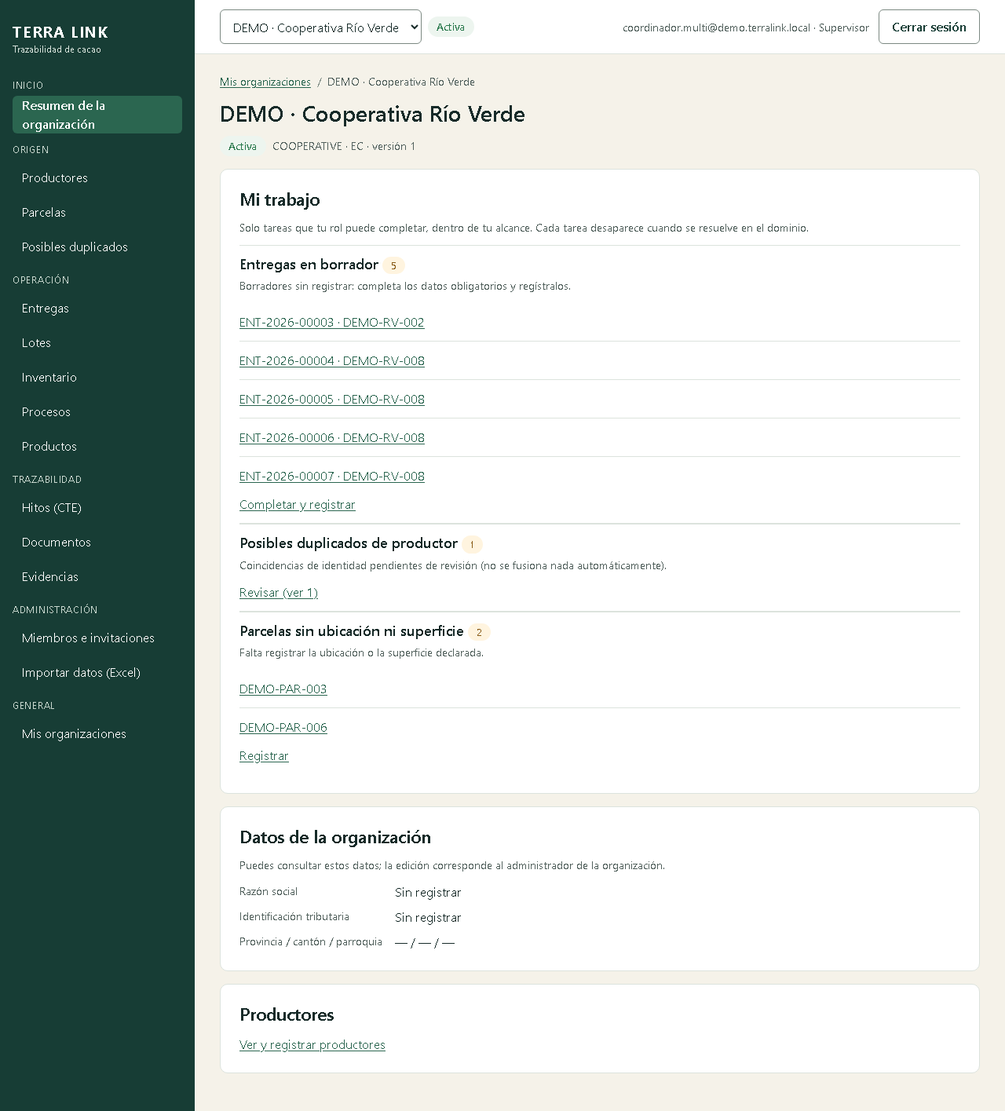
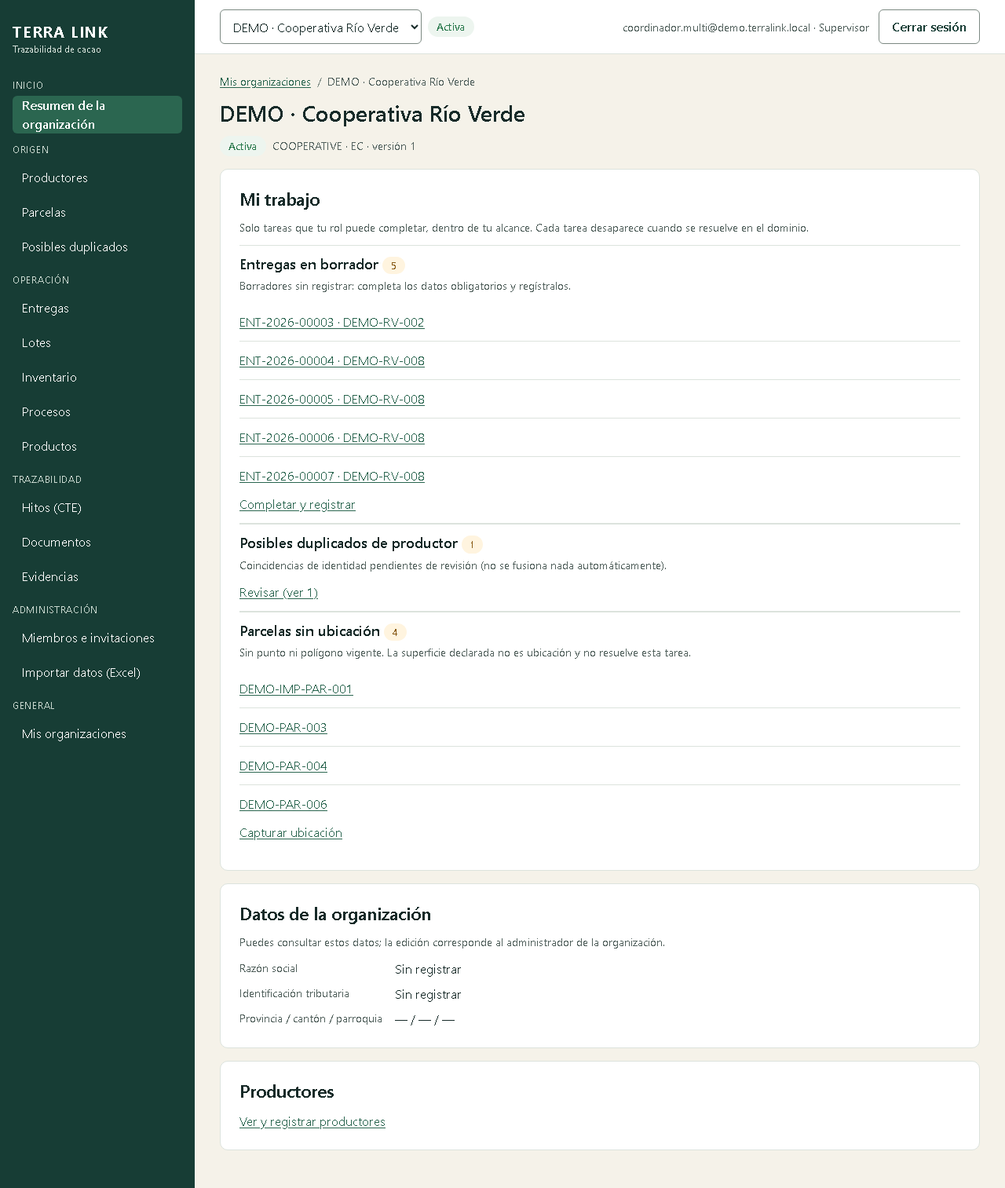
P0-027 reabierta: «Parcelas sin ubicación» exige geometría y aviso de parcelas restringidas por permiso
- La tarea cuenta parcelas sin versión o con versión vigente sin geometría; la superficie
  declarada ya no la resuelve (pruebas: sin versión, solo superficie, punto y polígono).
- Acción real en navegador: punto SIMULADO (geolocalización emulada) en DEMO-IMP-PAR-002.
- Lot Hub y detalle de entrega: el aviso depende solo del permiso; recepciones con 0, 1 o 2
  parcelas ocultas devuelven la misma forma (sin códigos, ids ni cantidades).
- Evidencia corregida; validate aprobada (2026-10-12T17-51-31-124Z).

diff --git a/apps/api/test/my-work.int-spec.ts b/apps/api/test/my-work.int-spec.ts
@@ -74,10 +74,29 @@ describeDb('P0-027 Mi trabajo y Lot Hub (PostgreSQL real)', () => {
     expect(rec).toMatchObject({ count: 1, items: [expect.objectContaining({ label: expect.stringContaining('W-2') })] });
     await http().post(`${api(orgA)}/deliveries/${draft.id}/receptions`).set(as('recepcion@test.local')).send({ operation_id: randomUUID(), location_id: center, received_at: new Date().toISOString(), weighing: { method: 'B', quantity: '100', unit: 'KG', weighed_on: today } }).expect(201);
     expect(task(await work('recepcion@test.local'), 'DELIVERIES_TO_RECEIVE')).toBeUndefined();
-    expect(task(await work(T1), 'PLOTS_WITHOUT_LOCATION')!.count).toBe(1);
-    const v = await h.db.selectFrom('plots').select('row_version').where('id', '=', plotP1).executeTakeFirstOrThrow();
-    await http().post(`${api(orgA)}/plots/${plotP1}/declared-area`).set(as(T1)).send({ expected_version: Number(v.row_version), area_declared_ha: 1.5 }).expect(201);
-    expect(task(await work(T1), 'PLOTS_WITHOUT_LOCATION')).toBeUndefined();
+  });
+
+  it('Parcelas sin ubicación: sin versión y solo superficie declarada siguen en la tarea; punto y polígono la resuelven', async () => {
+    const mkPlot = async (code: string) => (await http().post(`${api(orgA)}/plots`).set(as(ADMIN)).send({ producer_id: p1, plot_code: code, crop: 'Cacao' }).expect(201)).body.id as string;
+    const rv = async (id: string) => Number((await h.db.selectFrom('plots').select('row_version').where('id', '=', id).executeTakeFirstOrThrow()).row_version);
+    const labels = async () => (task(await work(T1), 'PLOTS_WITHOUT_LOCATION')?.items ?? []).map((i) => i.label);
+    const declared = await mkPlot('W-1-DECL');
+    const point = await mkPlot('W-1-PUNTO');
+    const polygon = await mkPlot('W-1-POLI');
+    expect(await labels()).toEqual(expect.arrayContaining(['W-1-P1', 'W-1-DECL', 'W-1-PUNTO', 'W-1-POLI'])); // sin versión
+    // Superficie declarada sin coordenadas: versión vigente sin geometría → sigue sin ubicación.
+    await http().post(`${api(orgA)}/plots/${declared}/declared-area`).set(as(T1)).send({ expected_version: await rv(declared), area_declared_ha: 1.2 }).expect(201);
+    await http().post(`${api(orgA)}/plots/${point}/declared-area`).set(as(T1)).send({ expected_version: await rv(point), area_declared_ha: 0.8 }).expect(201);
+    expect(await labels()).toEqual(expect.arrayContaining(['W-1-DECL', 'W-1-PUNTO']));
+    // Punto (sobre una versión declarada) y polígono: la tarea se retira solo para esas parcelas.
+    await http().post(`${api(orgA)}/plots/${point}/geometry-versions`).set(as(T1)).send({ expected_version: await rv(point), survey_method: 'MANUAL_COORDINATES', geometry: { type: 'Point', coordinates: [-80.1601, -0.8479] } }).expect(201);
+    const ring = [[-80.16, -0.85], [-80.159, -0.85], [-80.159, -0.849], [-80.16, -0.849], [-80.16, -0.85]];
+    await http().post(`${api(orgA)}/plots/${polygon}/geometry-versions`).set(as(T1)).send({ expected_version: await rv(polygon), survey_method: 'MANUAL_COORDINATES', geometry: { type: 'Polygon', coordinates: [ring] } }).expect(201);
+    const after = await labels();
+    expect(after).toEqual(expect.arrayContaining(['W-1-P1', 'W-1-DECL']));
+    expect(after).not.toContain('W-1-PUNTO');
+    expect(after).not.toContain('W-1-POLI');
+    expect(task(await work(T1), 'PLOTS_WITHOUT_LOCATION')).toMatchObject({ title: 'Parcelas sin ubicación', count: 2 });
   });
 
   it('Lot Hub: quien lee entregas pero no parcelas no recibe códigos ni ids de parcelas de origen', async () => {
@@ -88,8 +107,41 @@ describeDb('P0-027 Mi trabajo y Lot Hub (PostgreSQL real)', () => {
     expect(adminView.upstream.receptions[0]).toMatchObject({ plots: ['W-1-P1'], plot_links: [{ id: plotP1, code: 'W-1-P1' }], plots_restricted: false, origin_known: true, delivery_id: d.id, producer_id: p1 });
     expect(adminView.inputs[0].delivery_id).toBe(d.id);
     const recView = (await http().get(`${api(orgA)}/lots/${lot.id}`).set(as('recepcion@test.local')).expect(200)).body;
-    expect(recView.upstream.receptions[0]).toMatchObject({ plots: [], plot_links: [], plots_restricted: true, origin_known: true, producer_id: null });
+    expect(recView.upstream.receptions[0]).toMatchObject({ plots: [], plot_links: [], plots_restricted: true, origin_known: null, producer_id: null });
     expect(JSON.stringify(recView)).not.toContain('W-1-P1');
     expect(JSON.stringify(recView)).not.toContain(plotP1);
+  });
+
+  it('parcelas restringidas: el aviso depende del permiso; lotes con 0, 1 o 2 parcelas ocultas son indistinguibles', async () => {
+    const extra = (await http().post(`${api(orgA)}/plots`).set(as(ADMIN)).send({ producer_id: p1, plot_code: 'W-1-OCULTA2', crop: 'Cacao' }).expect(201)).body.id;
+    const mkLot = async (origins: Array<{ plot_id: string; quantity?: string }>) => {
+      const d = (await http().post(`${api(orgA)}/deliveries`).set(as(ADMIN)).send({ operation_id: randomUUID(), producer_id: p1, product_id: product, delivery_date: today, quantity_declared: '30', unit: 'KG', origins, register: true }).expect(201)).body.delivery;
+      const r = (await http().post(`${api(orgA)}/deliveries/${d.id}/receptions`).set(as(ADMIN)).send({ operation_id: randomUUID(), location_id: center, received_at: new Date().toISOString(), weighing: { method: 'B', quantity: '30', unit: 'KG', weighed_on: today } }).expect(201)).body.reception_id;
+      return { delivery: d.id as string, lot: (await http().post(`${api(orgA)}/lots`).set(as(ADMIN)).send({ operation_id: randomUUID(), inputs: [{ reception_id: r, quantity: '30' }] }).expect(201)).body.lot.id as string };
+    };
+    const one = await mkLot([{ plot_id: plotP1, quantity: '30' }]);
+    const two = await mkLot([{ plot_id: plotP1, quantity: '10' }, { plot_id: extra, quantity: '20' }]);
+    const none = await mkLot([]);
+    const Q = 'calidad@test.local'; // lee entregas y lotes; sin lectura de parcelas ni capacidad de declarar origen
+    const shape = async (lot: string) => {
+      const v = (await http().get(`${api(orgA)}/lots/${lot}`).set(as(Q)).expect(200)).body;
+      return v.upstream.receptions.map(({ lot_id: _l, delivery_id: _d, delivery_code: _c, ...rest }: Record<string, unknown>) => rest);
+    };
+    const [s1, s2, s0] = [await shape(one.lot), await shape(two.lot), await shape(none.lot)];
+    expect(s1).toEqual([{ producer_code: 'W-1', producer_id: null, producer_name: null, plots: [], plot_links: [], plots_restricted: true, origin_known: null, quantity: { value: '30', unit: 'KG' } }]);
+    expect(s2).toEqual(s1);
+    expect(s0).toEqual(s1); // sin origen declarado: misma forma por recepción (el estado D-39 del lote es un atributo del lote, no una referencia)
+    const full1 = JSON.stringify((await http().get(`${api(orgA)}/lots/${one.lot}`).set(as(Q)).expect(200)).body);
+    const full2 = JSON.stringify((await http().get(`${api(orgA)}/lots/${two.lot}`).set(as(Q)).expect(200)).body);
+    for (const leak of ['W-1-P1', 'W-1-OCULTA2', plotP1, extra, '"10"', '"20"']) { expect(full1).not.toContain(leak); expect(full2).not.toContain(leak); }
+    // Detalle de entrega: mismo criterio.
+    for (const d of [one.delivery, two.delivery, none.delivery]) {
+      const body = (await http().get(`${api(orgA)}/deliveries/${d}`).set(as(Q)).expect(200)).body;
+      expect(body).toMatchObject({ origins: [], origins_restricted: true, origin_status: 'RESTRICTED' });
+      for (const leak of ['W-1-P1', 'W-1-OCULTA2', plotP1, extra]) expect(JSON.stringify(body)).not.toContain(leak);
+    }
+    // Con permiso, el aviso no aparece y se ven las parcelas.
+    expect((await http().get(`${api(orgA)}/lots/${two.lot}`).set(as(ADMIN)).expect(200)).body.upstream.receptions[0]).toMatchObject({ plots: ['W-1-OCULTA2', 'W-1-P1'], plots_restricted: false, origin_known: true });
+    expect((await http().get(`${api(orgA)}/lots/${none.lot}`).set(as(ADMIN)).expect(200)).body.upstream.receptions[0]).toMatchObject({ plots: [], plots_restricted: false, origin_known: false });
   });
 });

diff --git a/apps/api/src/lots/lots.ts b/apps/api/src/lots/lots.ts
@@ -593,9 +593,9 @@ export class LotsService {
     // «origen declarado» es del lote y se conserva aunque las parcelas no sean visibles; nunca se cuentan las ocultas.
     const plotScope = this.has(ctx, 'plot:read') ? sql`TRUE` : this.has(ctx, 'plot:read_assigned') ? sql`pr.assigned_membership_id = ${ctx.membershipId}` : sql`FALSE`;
     const producerScope = this.has(ctx, 'producer:read') ? sql`TRUE` : this.has(ctx, 'producer:read_assigned') ? sql`pr.assigned_membership_id = ${ctx.membershipId}` : sql`FALSE`;
-    const receptions = roots.length ? (await sql<{ lot_id: string; quantity: string; delivery_id: string; delivery_code: string; producer_id: string; producer_visible: boolean; producer_code: string; legal_name: string | null; first_name: string | null; last_name: string | null; declared: boolean; plots: Array<{ id: string; code: string }> | null }>`
+    const receptions = roots.length ? (await sql<{ lot_id: string; quantity: string; delivery_id: string; delivery_code: string; producer_id: string; producer_visible: boolean; producer_code: string; legal_name: string | null; first_name: string | null; last_name: string | null; declared: boolean; plot_visible: boolean; plots: Array<{ id: string; code: string }> | null }>`
       SELECT i.lot_id, i.quantity::text, d.id AS delivery_id, d.delivery_code, pr.id AS producer_id, (${producerScope}) AS producer_visible, pr.producer_code, pr.legal_name, pr.first_name, pr.last_name,
-             EXISTS (SELECT 1 FROM delivery_origins o WHERE o.delivery_id = d.id) AS declared,
+             EXISTS (SELECT 1 FROM delivery_origins o WHERE o.delivery_id = d.id) AS declared, (${plotScope}) AS plot_visible,
              CASE WHEN ${plotScope} THEN (SELECT json_agg(json_build_object('id', p.id, 'code', p.plot_code) ORDER BY p.plot_code) FROM delivery_origins o JOIN plots p ON p.id = o.plot_id WHERE o.delivery_id = d.id) ELSE NULL END AS plots
       FROM lot_inputs i JOIN receptions r ON r.id = i.reception_id JOIN deliveries d ON d.id = r.delivery_id JOIN producers pr ON pr.id = d.producer_id
       WHERE i.lot_id = ANY(${roots}::uuid[]) AND NOT EXISTS (SELECT 1 FROM lot_input_releases x WHERE x.input_id = i.id) AND ${this.deliveryVisible(ctx)}
@@ -604,8 +604,10 @@ export class LotsService {
       lots: lots.filter((l) => l.depth > 0).map((l) => ({ lot_id: l.id, lot_code: l.lot_code, depth: l.depth, contributed: l.quantity ? { value: dec(l.quantity), unit: 'KG' } : null })),
       receptions: receptions.map((r) => ({ lot_id: r.lot_id, delivery_id: r.delivery_id, delivery_code: r.delivery_code, producer_code: r.producer_code, producer_id: r.producer_visible ? r.producer_id : null,
         producer_name: identity ? (r.legal_name ?? `${r.first_name ?? ''} ${r.last_name ?? ''}`.trim()) || null : null,
-        plots: (r.plots ?? []).map((p) => p.code), plot_links: r.plots ?? [], plots_restricted: r.declared && r.plots === null,
-        origin_known: r.declared, quantity: { value: dec(r.quantity), unit: 'KG' } })),
+        // Sin lectura de parcelas, el aviso sale por permiso/alcance y no por los datos: una recepción con 0, 1 o n parcelas
+        // ocultas produce la misma forma (sin existencia, códigos ni cantidades; origin_known por recepción se omite).
+        plots: (r.plots ?? []).map((p) => p.code), plot_links: r.plots ?? [], plots_restricted: !r.plot_visible,
+        origin_known: r.plot_visible ? r.declared : null, quantity: { value: dec(r.quantity), unit: 'KG' } })),
       note: 'Cantidades registradas por enlace (aportado al proceso o asignado al lote). Cualquier reparto proporcional tras una mezcla es un cálculo, no identificación física.',
     };
   }

diff --git a/apps/api/src/deliveries/deliveries.ts b/apps/api/src/deliveries/deliveries.ts
@@ -807,6 +807,10 @@ export class DeliveriesService {
     const product = d.product_id ? await db.selectFrom('products').select(['id', 'code', 'name', 'unit', 'status']).where('id', '=', d.product_id).executeTakeFirst() : null;
     const location = d.location_id ? await db.selectFrom('locations').select(['id', 'code', 'name']).where('id', '=', d.location_id).executeTakeFirst() : null;
     const origins = await db.selectFrom('delivery_origins as o').innerJoin('plots as p', 'p.id', 'o.plot_id').select(['o.plot_id', 'p.plot_code', 'o.origin_quantity']).where('o.delivery_id', '=', d.id).orderBy('p.plot_code').execute();
+    // Parcelas de origen: con lectura de parcelas en alcance, o con la capacidad de declarar origen (las mismas parcelas que ya
+    // ofrece /deliveries/options). Si no, el aviso sale por permiso y la respuesta no revela existencia, códigos ni cantidades.
+    const assigned = d.producer_assignee === ctx.membershipId;
+    const plotsVisible = has('plot:read') || (has('plot:read_assigned') && assigned) || has('delivery:create') || (has('delivery:create_assigned') && assigned);
     const corrections = await db.selectFrom('delivery_corrections as c').leftJoin('users as u', 'u.id', 'c.created_by')
       .select(['c.correction_number', 'c.reason', 'c.changed_fields', 'c.delivery_date', 'c.quantity_declared', 'c.harvest_precision', 'c.harvest_start', 'c.harvest_end', 'c.created_at', 'c.corrected_event_id', 'c.correction_event_id', 'u.first_name', 'u.last_name'])
       .where('c.delivery_id', '=', d.id).orderBy('c.correction_number').execute();
@@ -912,8 +916,9 @@ export class DeliveriesService {
         precision: e.harvest_precision, start: e.harvest_start, end: e.harvest_end,
         derived: e.harvest_derived_start ? { start: ymd(e.harvest_derived_start)!, end: ymd(e.harvest_derived_end)!, note: 'Límites derivados para consultas; la declaración original es la de arriba.' } : null,
       } : null,
-      origins: origins.map((o) => ({ plot_id: o.plot_id, plot_code: o.plot_code, quantity: o.origin_quantity ? { value: dec(o.origin_quantity)!, unit: 'KG' } : null })),
-      origin_status: origins.length ? 'DECLARED' : 'MISSING',
+      origins: plotsVisible ? origins.map((o) => ({ plot_id: o.plot_id, plot_code: o.plot_code, quantity: o.origin_quantity ? { value: dec(o.origin_quantity)!, unit: 'KG' } : null })) : [],
+      origins_restricted: !plotsVisible,
+      origin_status: plotsVisible ? (origins.length ? 'DECLARED' : 'MISSING') : 'RESTRICTED',
       notes: e.notes,
       original_declaration: corrections.length ? { delivery_date: d.delivery_date ? ymd(d.delivery_date)! : null, quantity_declared: dec(d.quantity_declared), harvest_period: periodValue(d.harvest_precision, d.harvest_start, d.harvest_end) } : null,
       corrections: corrections.map((c) => ({ number: c.correction_number, reason: c.reason, changed_fields: c.changed_fields, delivery_date: ymd(c.delivery_date)!, quantity_declared: dec(c.quantity_declared)!,

diff --git a/apps/web/app/organizaciones/[id]/entregas/[deliveryId]/page.tsx b/apps/web/app/organizaciones/[id]/entregas/[deliveryId]/page.tsx
@@ -46,7 +46,7 @@ export default function DeliveryDetailPage() {
         <h2 id="dl-decl">Declaración</h2>
         <dl className="props">
           <dt>Productor</dt><dd>{d.producer.code}{d.producer.name ? ` · ${d.producer.name}` : <span className="muted"> (identidad no visible para tu rol)</span>}</dd>
-          <dt>Origen</dt><dd>{d.origin_status === 'MISSING' ? <StatusBadge tone="review">Origen faltante (pendiente)</StatusBadge> : d.origins.map((o) => `${o.plot_code}${o.quantity ? ` (${qty(o.quantity)})` : ''}`).join(', ')}</dd>
+          <dt>Origen</dt><dd>{d.origin_status === 'RESTRICTED' ? <span className="muted">parcelas restringidas para tu rol</span> : d.origin_status === 'MISSING' ? <StatusBadge tone="review">Origen faltante (pendiente)</StatusBadge> : d.origins.map((o) => `${o.plot_code}${o.quantity ? ` (${qty(o.quantity)})` : ''}`).join(', ')}</dd>
           <dt>Producto</dt><dd>{d.product ? `${d.product.name} (${d.product.code})` : <span className="muted">pendiente</span>}</dd>
           <dt>Cantidad declarada</dt><dd>{qty(d.quantity_declared)}</dd>
           <dt>Fecha de entrega</dt><dd>{d.delivery_date ?? <span className="muted">pendiente</span>}</dd>
@@ -331,7 +331,7 @@ function NewReception({ d, base, orgId, onDone }: { d: Delivery; base: string; o
       )}
       {reviewing && (
         <div className="alert info" role="status" aria-live="polite"><p className="alert-title">Revisa antes de confirmar</p>
-          <p>{d.delivery_code} · {d.producer.code} · origen: {d.origin_status === 'MISSING' ? 'faltante' : d.origins.map((o) => o.plot_code).join(', ')} · {d.product?.name ?? 'producto pendiente'}</p>
+          <p>{d.delivery_code} · {d.producer.code} · origen: {d.origin_status === 'RESTRICTED' ? 'restringido para tu rol' : d.origin_status === 'MISSING' ? 'faltante' : d.origins.map((o) => o.plot_code).join(', ')} · {d.product?.name ?? 'producto pendiente'}</p>
           <p>Declarado {qty(d.totals.declared)} · recibido hasta ahora {qty(d.totals.received)} · esta recepción {f.quantity || '—'} kg en {center?.name ?? '—'}</p>
           {d.support_status === 'PENDING' && <p>Sin soporte documental: la recepción se registra y la evidencia queda pendiente.</p>}
         </div>

diff --git a/apps/api/src/work/my-work.ts b/apps/api/src/work/my-work.ts
@@ -79,15 +79,17 @@ export class MyWorkService {
       if (Number(n)) tasks.push({ code: 'DUPLICATE_REVIEWS', title: 'Posibles duplicados de productor', reason: 'Coincidencias de identidad pendientes de revisión (no se fusiona nada automáticamente).', action: 'Revisar',
         count: Number(n), items: [], list_href: `${base}/productores/coincidencias` });
     }
-    // 5) Parcelas activas sin ubicación ni superficie (plot:update / _assigned).
+    // 5) Parcelas activas sin ubicación: sin versión vigente o con versión sin geometría (p. ej. solo superficie declarada).
+    //    La superficie declarada no es ubicación; la tarea se resuelve solo con un punto o un polígono (plot:update / _assigned).
     const plotWrite = this.scope(ctx, 'plot:update', 'plot:update_assigned', prAssignee);
     if (active && plotWrite) {
       const rows = (await sql<{ id: string; plot_code: string; n: string }>`
         SELECT p.id, p.plot_code, count(*) OVER ()::text AS n FROM plots p
         JOIN producers pr ON pr.id = p.producer_id AND pr.organization_id = p.organization_id
-        WHERE p.organization_id = ${orgId} AND p.status = 'ACTIVE' AND p.current_version_id IS NULL AND ${plotWrite}
+        LEFT JOIN plot_versions v ON v.id = p.current_version_id AND v.plot_id = p.id
+        WHERE p.organization_id = ${orgId} AND p.status = 'ACTIVE' AND (p.current_version_id IS NULL OR v.geometry_type IS NULL) AND ${plotWrite}
         ORDER BY p.plot_code LIMIT ${LIMIT}`.execute(this.db)).rows;
-      if (rows.length) tasks.push({ code: 'PLOTS_WITHOUT_LOCATION', title: 'Parcelas sin ubicación ni superficie', reason: 'Falta registrar la ubicación o la superficie declarada.', action: 'Registrar',
+      if (rows.length) tasks.push({ code: 'PLOTS_WITHOUT_LOCATION', title: 'Parcelas sin ubicación', reason: 'Sin punto ni polígono vigente. La superficie declarada no es ubicación y no resuelve esta tarea.', action: 'Capturar ubicación',
         count: Number(rows[0].n), items: rows.map((r) => ({ id: r.id, label: r.plot_code, href: `${base}/parcelas/${r.id}` })), list_href: `${base}/parcelas?geometry=WITHOUT` });
     }
     // 6) Mitigaciones asignadas a mí, abiertas (mitigation:contribute).

diff --git a/apps/web/lib/lots.tsx b/apps/web/lib/lots.tsx
@@ -11,7 +11,7 @@ export interface Lot {
   inputs: Array<{ id: string; reception_id: string; delivery_id?: string; delivery_code: string; producer_code: string; received_at: string; weighing_id: string; reception_version: number; quantity: Qty; origin_known: boolean; released: { reason: string; at: string } | null }>;
   produced_by: { run_id: string; run_code: string; process_type: string; quantity: Qty } | null;
   used_by: Array<{ run_id: string; run_code: string; process_type: string; status: string; effect: 'RESERVED' | 'CONSUMED' | 'RELEASED'; quantity: Qty }>;
-  upstream: { lots: Array<{ lot_id: string; lot_code: string; depth: number; contributed: Qty | null }>; receptions: Array<{ lot_id: string; delivery_id?: string; delivery_code: string; producer_code: string; producer_id?: string | null; producer_name: string | null; plots: string[]; plot_links?: Array<{ id: string; code: string }>; plots_restricted?: boolean; origin_known: boolean; quantity: Qty }>; note: string };
+  upstream: { lots: Array<{ lot_id: string; lot_code: string; depth: number; contributed: Qty | null }>; receptions: Array<{ lot_id: string; delivery_id?: string; delivery_code: string; producer_code: string; producer_id?: string | null; producer_name: string | null; plots: string[]; plot_links?: Array<{ id: string; code: string }>; plots_restricted?: boolean; origin_known: boolean | null; quantity: Qty }>; note: string };
   downstream: Array<{ lot_id: string; lot_code: string; depth: number; via_run: string; contributed: Qty }>;
   history: Array<{ event_type: string; version: number; occurred_at: string; actor: string }>;
   actions: { assign: boolean; release_input: boolean; close_for_input: boolean };

diff --git a/apps/web/lib/deliveries.tsx b/apps/web/lib/deliveries.tsx
@@ -19,7 +19,7 @@ export interface Delivery {
   producer: { id: string; code: string; name: string | null; identity_visible: boolean };
   product: { id: string; code: string; name: string; status: string } | null; location: { id: string; code: string; name: string } | null;
   delivery_date: string | null; quantity_declared: Qty | null; harvest_period: HarvestPeriod | null;
-  origins: Array<{ plot_id: string; plot_code: string; quantity: Qty | null }>; origin_status: 'DECLARED' | 'MISSING'; notes: string | null;
+  origins: Array<{ plot_id: string; plot_code: string; quantity: Qty | null }>; origins_restricted?: boolean; origin_status: 'DECLARED' | 'MISSING' | 'RESTRICTED'; notes: string | null;
   original_declaration: { delivery_date: string | null; quantity_declared: string | null; harvest_period: { precision: string; start?: string; end?: string } | null } | null;
   corrections: Array<{ number: number; reason: string; changed_fields: string[]; delivery_date: string; quantity_declared: string; harvest_period: { precision: string; start?: string; end?: string } | null; at: string; by: string }>;
   supports: Array<{ id: string; kind: string; document_id: string; document_version_id: string; title: string; version_number: number; availability: string; validity: string; expires_at: string | null; review: string; newer_version_exists: boolean; withdrawn: { reason: string; at: string } | null }>;

diff --git a/apps/web/app/organizaciones/[id]/lotes/[lotId]/page.tsx b/apps/web/app/organizaciones/[id]/lotes/[lotId]/page.tsx
@@ -77,7 +77,7 @@ export default function LotDetailPage() {
             <li key={i}>Recepción {r.delivery_id ? <Link href={`/organizaciones/${orgId}/entregas/${r.delivery_id}`}>{r.delivery_code}</Link> : r.delivery_code}
               {' · '}{r.producer_id ? <Link href={`/organizaciones/${orgId}/productores/${r.producer_id}`}>{r.producer_code}</Link> : r.producer_code}{r.producer_name ? ` (${r.producer_name})` : ''}
               {' · '}{r.plot_links && r.plot_links.length ? <>parcelas {r.plot_links.map((p, j) => <span key={p.id}>{j ? ', ' : ''}<Link href={`/organizaciones/${orgId}/parcelas/${p.id}`}>{p.code}</Link></span>)}</>
-                : r.plots_restricted ? <span className="muted">origen declarado; parcelas restringidas para tu rol</span> : r.origin_known ? `parcelas ${r.plots.join(', ')}` : 'origen no declarado'}
+                : r.plots_restricted ? <span className="muted">parcelas restringidas para tu rol</span> : r.origin_known ? `parcelas ${r.plots.join(', ')}` : 'origen no declarado'}
               {' · '}{kg(r.quantity.value)}
             </li>
           ))}

diff --git a/docs/decisiones/P0-027-WEB-POR-ROL-Y-LOT-HUB.md b/docs/decisiones/P0-027-WEB-POR-ROL-Y-LOT-HUB.md
@@ -18,8 +18,8 @@ Fuentes: backlog P0-027, RF-27, QA-14, `docs/UX_UI.md` §6 (navegación), §7 (r
 
 - **Mi trabajo** (`GET /organizations/{orgId}/my-work`, `apps/api/src/work/my-work.ts`): tareas observables que el rol
   puede completar, contadas dentro del alcance con que su módulo las muestra (organización o asignados): borradores de
-  entrega, entregas sin recepción, resultados de calidad sin decisión, posibles duplicados, parcelas sin ubicación ni
-  superficie, mitigaciones asignadas y por verificar (sin las enviadas por uno mismo). Sin recursos ocultos; la tarea
+  entrega, entregas sin recepción, resultados de calidad sin decisión, posibles duplicados, parcelas sin ubicación (sin
+  punto ni polígono vigente; la superficie declarada no la resuelve), mitigaciones asignadas y por verificar (sin las enviadas por uno mismo). Sin recursos ocultos; la tarea
   desaparece al resolverse en el dominio. Organización suspendida: sin tareas de escritura.
 - **Inicio**: sección «Mi trabajo» (carga, error con reintento, vacío) y lista de capacidades **realmente** ausentes
   (offline en la app móvil, embarques P0-029, portal comprador P1-001, «Mi finca» UX-D08, elevación de plataforma D-04),
@@ -27,8 +27,8 @@ Fuentes: backlog P0-027, RF-27, QA-14, `docs/UX_UI.md` §6 (navegación), §7 (r
 - **Lot Hub**: secciones de Evidencias (por el origen visible: el contrato vincula evidencias a productores y parcelas) y de
   Riesgo y debida diligencia (evaluación, mitigaciones, expediente), cada una con su permiso, carga, error y vacío; enlaces
   a entrega, productor y parcela solo si son legibles. **Corregida la fuga**: el origen hacia atrás solo incluye parcelas
-  dentro del alcance de lectura de parcelas; si el origen está declarado pero no es visible, se dice «parcelas restringidas
-  para tu rol» sin contar.
+  dentro del alcance de lectura de parcelas; sin lectura de parcelas se dice «parcelas restringidas
+  para tu rol» **por permiso**, sin distinguir recepciones con o sin parcelas ocultas (reapertura 2026-10-12).
 - **Organización ajena**: el `Shell` responde «El recurso no está disponible» para cualquier página de una organización
   sin membresía activa (sin cargar datos).
 - **Filtros en la URL** (`lib/url-filters.ts`) en entregas, productores, parcelas y mitigaciones.
@@ -43,7 +43,7 @@ Fuentes: backlog P0-027, RF-27, QA-14, `docs/UX_UI.md` §6 (navegación), §7 (r
 | Formularios conservan datos | Cumplido (existente) | E2E `parcelas.spec.ts` (conflicto conserva borrador), importaciones y entregas conservan el formulario ante error |
 | Acciones con efecto de dominio | Cumplido | acción real desde «Mi trabajo» que retira la tarea (navegador y API) |
 | Sin métricas falsas | Cumplido | conteos del dominio dentro del alcance; ninguna cifra fija |
-| Acción My Work sale al resolverse (QA-14) | Cumplido | registrar borrador, recibir entrega y registrar superficie retiran su tarea |
+| Acción My Work sale al resolverse (QA-14) | Cumplido | registrar borrador y recibir entrega retiran su tarea; para parcelas, un punto o un polígono la retiran y la superficie declarada **no** (corregido en la reapertura) |
 | Teclado | Cumplido | enlace de salto con foco visible y destino `#contenido` |
 
 Con `npm run validate` aprobada sobre el commit, **P0-027 queda DONE_LOCAL**.
@@ -58,3 +58,11 @@ Con `npm run validate` aprobada sobre el commit, **P0-027 queda DONE_LOCAL**.
    organización se probó en la Cooperativa (la única con lotes DEMO).
 5. Las revisiones heredadas usaban conteos fijos del seed: se ajustaron a la presencia de los registros del seed, porque la
    DEMO incluye registros importados (P0-026) y capturas previas del emulador (P0-024).
+
+## Reapertura (2026-10-12)
+
+La evidencia inicial dio por resuelta «Parcelas sin ubicación» al registrar superficie declarada: la condición contaba
+parcelas sin versión vigente. Corregido: la tarea cuenta parcelas activas sin versión **o** con versión vigente sin
+geometría; título «Parcelas sin ubicación», acción «Capturar ubicación». El aviso de parcelas restringidas del Lot Hub y del
+detalle de entrega pasó a depender solo del permiso. Pruebas y acción real en `docs/qa/EVIDENCIA_P0-027_2026-10-12.md`.
+P0-027 vuelve a DONE_LOCAL solo con `npm run validate` aprobada sobre el commit de la corrección.

diff --git a/docs/qa/EVIDENCIA_P0-027_2026-10-12.md b/docs/qa/EVIDENCIA_P0-027_2026-10-12.md
@@ -31,13 +31,37 @@ Equipo local, contenedores del proyecto `terra-link`, datos DEMO. No acredita pr
 
 Además: filtros conservados al volver del detalle de una entrega (`?status=REGISTERED`); el primer Tab llega a «Saltar al
 contenido» con foco visible; inicio, Lot Hub y entregas sin desplazamiento horizontal a 390 px y a 640 px CSS (zoom 200 % de
-1280 px); acción real: registrar la superficie declarada de `DEMO-IMP-PAR-002` desde «Mi trabajo» retiró la tarea (3 → 2).
+1280 px).
+
+> **Corrección (2026-10-12, reapertura).** La primera evidencia afirmaba que registrar la superficie declarada de
+> `DEMO-IMP-PAR-002` retiraba la tarea «Parcelas sin ubicación» (3 → 2). Era **conceptualmente incorrecto**: la tarea
+> contaba parcelas *sin versión vigente*, no *sin geometría*, y una versión DECLARED sin coordenadas sigue sin ubicación.
+> Se reabrió P0-027, se corrigió la condición (`p.current_version_id IS NULL OR v.geometry_type IS NULL`) y el texto de la
+> tarea, y la acción real pasó a ser la captura de un punto. Ver «Reapertura» abajo.
 
 ## Registro DEMO modificado
 
 `DEMO-IMP-PAR-002` (parcela importada sintética, productor DEMO-RV-008) recibió una versión DECLARED de 1.2 ha durante la
-revisión (acción real de «Mi trabajo»). Ver `docs/qa/importacion/PROCEDENCIA_DATOS_DEMO_IMPORTADOS.md`.
+primera revisión (v1, 16:17 UTC) y, tras la reapertura, una versión v2 `BROWSER_GEOLOCATION` POINT (-0.8479, -80.1601)
+**SIMULADA** por la geolocalización emulada del navegador de prueba (17:31 UTC), que conserva la superficie de 1.2 ha.
+No es una ubicación real de campo. Ver `docs/qa/importacion/PROCEDENCIA_DATOS_DEMO_IMPORTADOS.md`.
 
 ## Historias que siguen abiertas
 
 P0-012, P0-016, P0-017, P0-022, P0-023 y P0-024 no cambian de estado. APK `9996a9b4…` intacta; Android no recompilado.
+
+## Reapertura y nuevo cierre (2026-10-12)
+
+| Verificación | Resultado |
+| --- | --- |
+| `npm run validate` (corrección) | **APROBADA**: `validation-results/2026-10-12T17-51-31-124Z` |
+| `npm run validate` previa (corrección) | FALLIDA: `imports-products` «aislamiento» excedió 60 s (archivo 517 s; aislado pasa 11/11 en 14 s). Episodio lento de causa no determinada, como el de 690 s; sin cambio de timeouts. `validation-results/2026-10-12T17-33-01-931Z` |
+| `test/my-work.int-spec.ts` | 6/6: añade «sin versión, solo superficie declarada, punto y polígono» y «parcelas restringidas indistinguibles» |
+| Acción real (navegador, `web-por-rol.mjs`) | con DEMO-IMP-PAR-002 en la tarea solo con superficie declarada, la captura de un punto SIMULADO la retiró; la tarea quedó en 4 pendientes (consulta API posterior). La matriz se ejecutó dos veces seguidas por error de operación: la segunda registró «no aplicable» y sobrescribió `matriz.json`; la primera no reportó fallos y dejó `capturas/web-por-rol/admin-mi-trabajo-tras-accion.png` (12:31 hora local). La versión v2 en la base acredita el efecto. |
+| Matriz por rol | 22 combinaciones: aprobada |
+| «Parcelas restringidas para tu rol» | el aviso depende del permiso/alcance; para calidad.acopio (sin lectura de parcelas) lotes con 0, 1 y 2 parcelas ocultas devuelven la misma forma por recepción (sin códigos, ids ni cantidades por parcela; `origin_known` por recepción = `null`). El detalle de entrega aplica el mismo criterio (`origins_restricted`, `origin_status: RESTRICTED`). |
+
+Límite conocido: el estado de origen del **lote** (COMPLETE/INCOMPLETE, D-39) sigue visible a quien lee lotes: es un
+atributo del lote necesario para no mezclar orígenes, no una referencia a parcelas. Quien puede crear entregas
+(`delivery:create`, p. ej. RECEPTION_OPERATOR) ve las parcelas del productor porque las declara como origen
+(`/deliveries/options`); queda anotado como decisión de producto a revisar (lectura de parcelas para recepción).

diff --git a/docs/18_BACKLOG.md b/docs/18_BACKLOG.md
@@ -135,7 +135,7 @@ Estado (2026-10-12): **DONE_LOCAL**. Las cinco plantillas de S1 §62 implementad
 ### P0-027 — Web por rol y Lot Hub
 Depende contratos aplicables P0-003/004/006/016/019/020/022. Como operador, necesito completar trabajo desde contexto.
 Aceptación: home/menu por permiso, hub y enlaces seguros, estados loading/vacío/403/error separados, formularios conservan datos y acciones tienen efecto de dominio; no métricas falsas. RF-27; QA-14.
-Estado (2026-10-12): **DONE_LOCAL**. «Mi trabajo» con tareas reales por alcance, Lot Hub con evidencias y riesgo/mitigación/expediente por permiso, fuga de parcelas de origen corregida, organización ajena «no disponible», filtros en la URL; matriz de 22 combinaciones cuenta–organización–rol, estados, teclado, 390 px y zoom 200 %. Ver `docs/decisiones/P0-027-WEB-POR-ROL-Y-LOT-HUB.md`. Limitaciones: destino/embarques (P0-029), evidencias por origen (P0-019), BUYER/PRODUCER/SUPER_ADMIN sin acceso implícito.
+Estado (2026-10-12): **DONE_LOCAL** (reabierta y cerrada de nuevo el mismo día: «Parcelas sin ubicación» exige punto o polígono —la superficie declarada no la resuelve— y el aviso de parcelas restringidas depende solo del permiso; `validation-results/2026-10-12T17-51-31-124Z`). «Mi trabajo» con tareas reales por alcance, Lot Hub con evidencias y riesgo/mitigación/expediente por permiso, fuga de parcelas de origen corregida, organización ajena «no disponible», filtros en la URL; matriz de 22 combinaciones cuenta–organización–rol, estados, teclado, 390 px y zoom 200 %. Ver `docs/decisiones/P0-027-WEB-POR-ROL-Y-LOT-HUB.md`. Limitaciones: destino/embarques (P0-029), evidencias por origen (P0-019), BUYER/PRODUCER/SUPER_ADMIN sin acceso implícito.
 
 ### P0-028 — Primer proveedor satelital
 Depende P0-010/019/020. Como EUDR_MANAGER, necesito resultado con procedencia.

diff --git a/docs/23_ESTADO_DESARROLLO.md b/docs/23_ESTADO_DESARROLLO.md
@@ -22,7 +22,7 @@ GitHub Actions no es requisito en esta etapa (workflow inactivo en `infra/ci/git
 | P0-005 Código y deduplicación | **DONE_LOCAL** | Unicidad concurrente, coincidencia de identidad y revisión sin fusión |
 | P0-006 Parcela | **DONE_LOCAL** (brecha corregida el 2026-10-10) | Clasificación de geometría exacta (doc 06) faltaba: detectada al iniciar P0-007, corregida con `plot:read_geometry` y probada antes de volver a declararla cumplida |
 | P0-007 Punto GPS | **DONE_LOCAL** con evidencia **simulada**; captura real pendiente de comprobación humana | Ver criterios abajo |
-| P0-027 Web por rol y Lot Hub | **DONE_LOCAL** (2026-10-12): criterios originales contrastados; `npm run validate` aprobada sobre el commit | Ver `docs/decisiones/P0-027-WEB-POR-ROL-Y-LOT-HUB.md` |
+| P0-027 Web por rol y Lot Hub | **DONE_LOCAL** (2026-10-12): reabierta por la condición de «Parcelas sin ubicación» y el aviso de parcelas restringidas; corregida y `npm run validate` aprobada (`2026-10-12T17-51-31-124Z`) | Ver `docs/decisiones/P0-027-WEB-POR-ROL-Y-LOT-HUB.md` |
 | P0-026 Importación Excel | **DONE_LOCAL** (2026-10-12): cinco plantillas (productores, productos, parcelas, entregas, lotes) con criterios originales contrastados; `npm run validate` aprobada sobre el commit. No acredita uso con un Excel real de una asociación | Ver `docs/decisiones/P0-026-IMPORTACION-EXCEL.md` |
 | Superficie declarada (P0-006) | **Adopción para desarrollo local** (2026-10-12): actualizarla conserva la geometría vigente; no hereda evaluaciones GIS | Ver `docs/decisiones/SUPERFICIE-DECLARADA-CONSERVA-GEOMETRIA.md` |
 | P0-024 Sync | **ABIERTA**: servidor y motor móvil para ubicación y foto; probado en integración y con cliente Node contra la API; sin dispositivo ni inventario | Ver criterios abajo |
